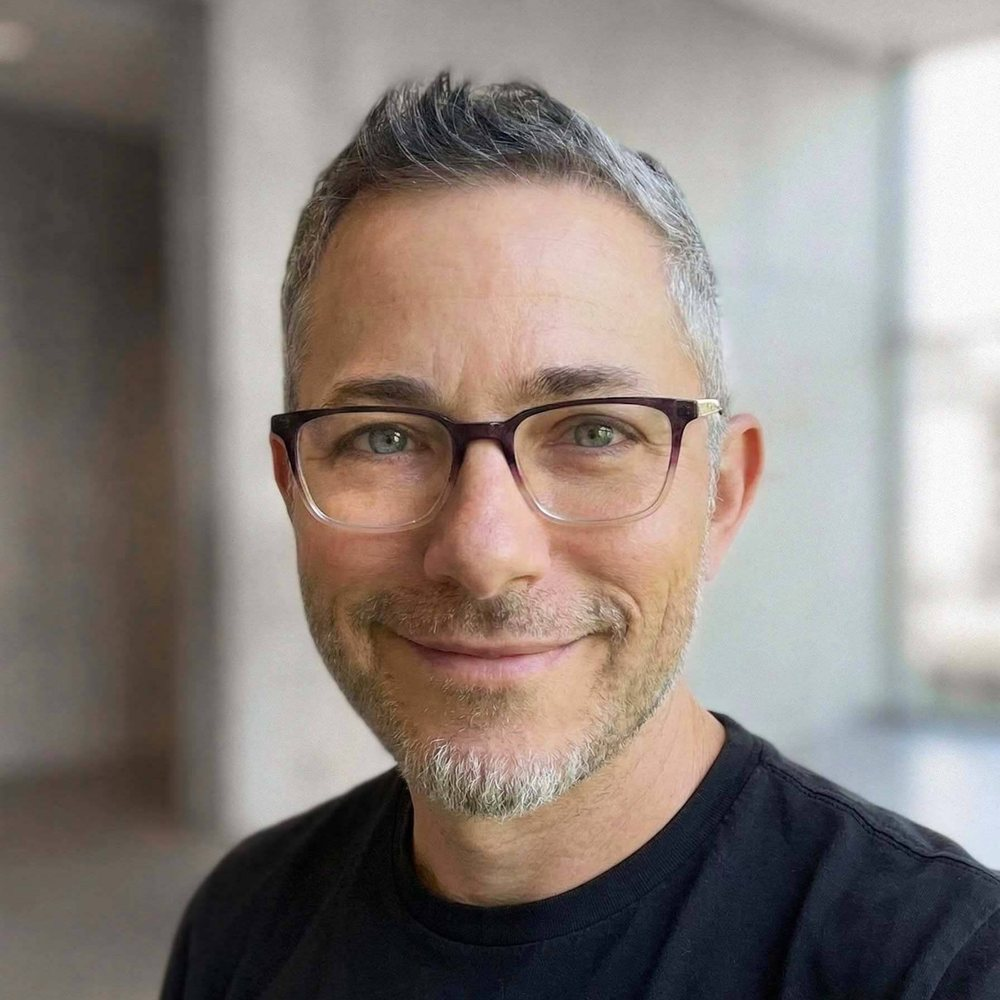
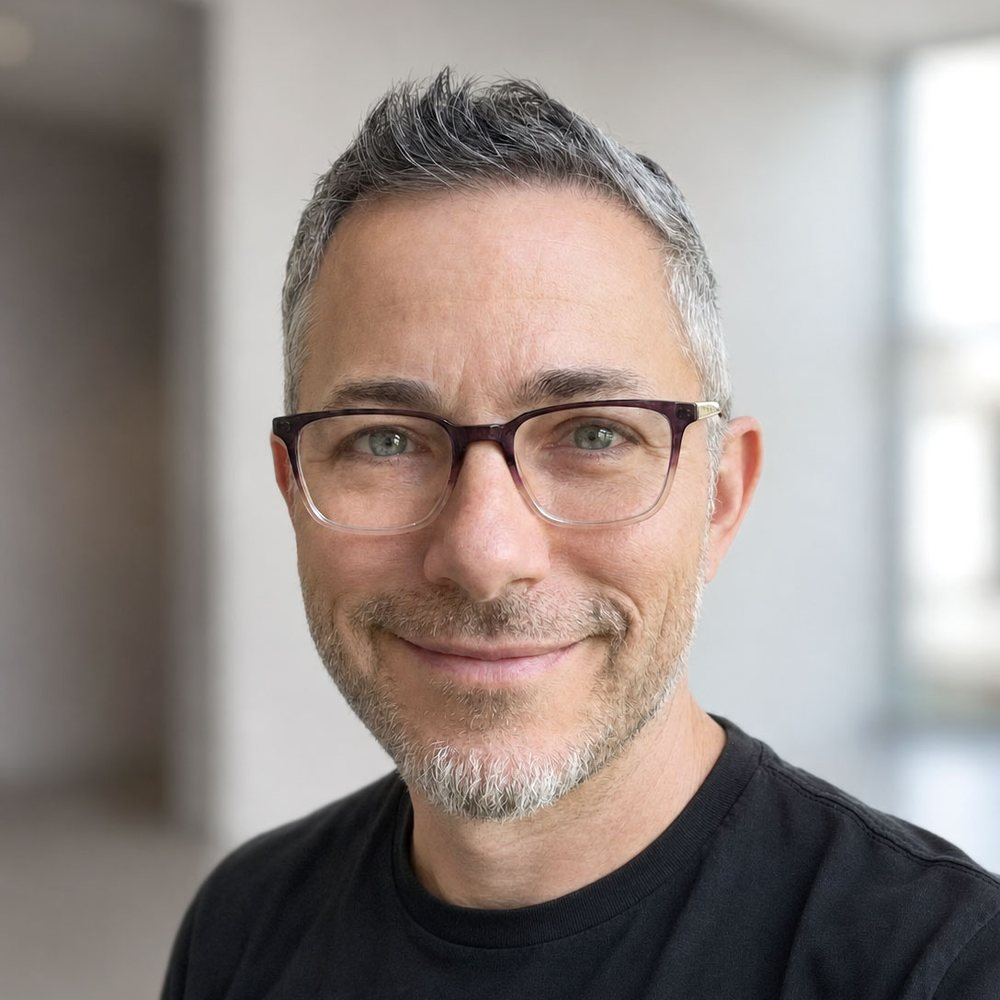
11-11 v1 – New About headshot

diff --git a/docs/build-log.md b/docs/build-log.md
@@ -809,3 +809,5 @@ Session 5 (11-01) wrapped. NOTHING from session 5 is pushed: Max pushes from Git
 
 **ALEX REORDER (Max 11-10, session 11)** (summary: `11-10 v2 – Alex: animation + billboard lead Brand Identity`): the hiring-sequence animation (anim-hero-v11, was the headless `lead:` right after the intro) and the subway billboard are now the first two pieces of Brand Identity, before the lockup trio. `lead:` removed from alex-ai.yml. "Brand in the World" renamed "Extended Design System" (address now #extended-design-system); the homepage Alex Verify slide link updated to match (build link check: all land). Measured at 1440: animation 913x571, billboard 913x651, then lockup trio, all at x 499; 0 overflow, no script errors. Not pushed.
 Figma note (Max 11-10): two frames are named "Homepage (24px spacing)". 110:1762 is now Max's exploration copy (slideshow in cols 5-12, 913x514); the design of record is the other, left-hand copy (node ID not yet read). Slideshow size/placement still undecided.
+
+**ABOUT PORTRAIT (Max 11-11, session 11)** (summary: `11-11 v1 – New About headshot`): assets/about/max-portrait.jpg replaced with Dropbox Spector Documents/Professional/Photographs & Avatars/Pro headshot AI 2026/"Restored editorial portrait with natural bokeh-1_02.jpg" (1088x1445), cropped square (full width, from y 76) to match the old framing, 1000px, JPG q84 (108 KB). Same file name, so about.html is unchanged. Source is only 1088 wide, about 1.2x the 886px a Retina screen wants at 443; a larger export would be sharper.
